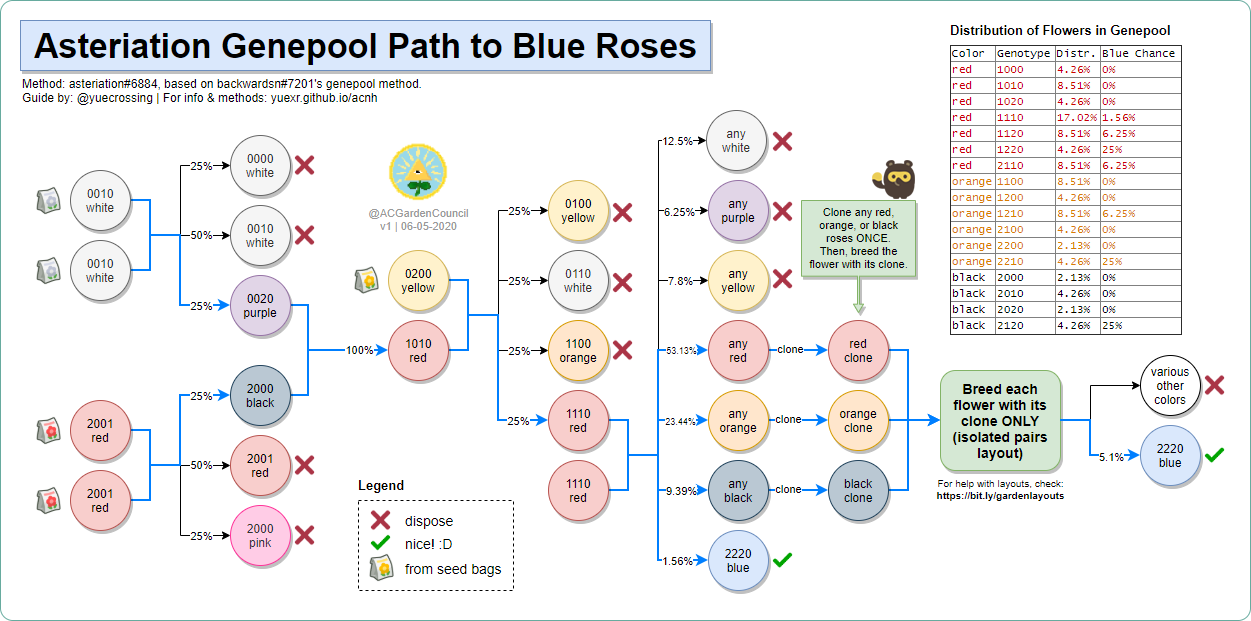
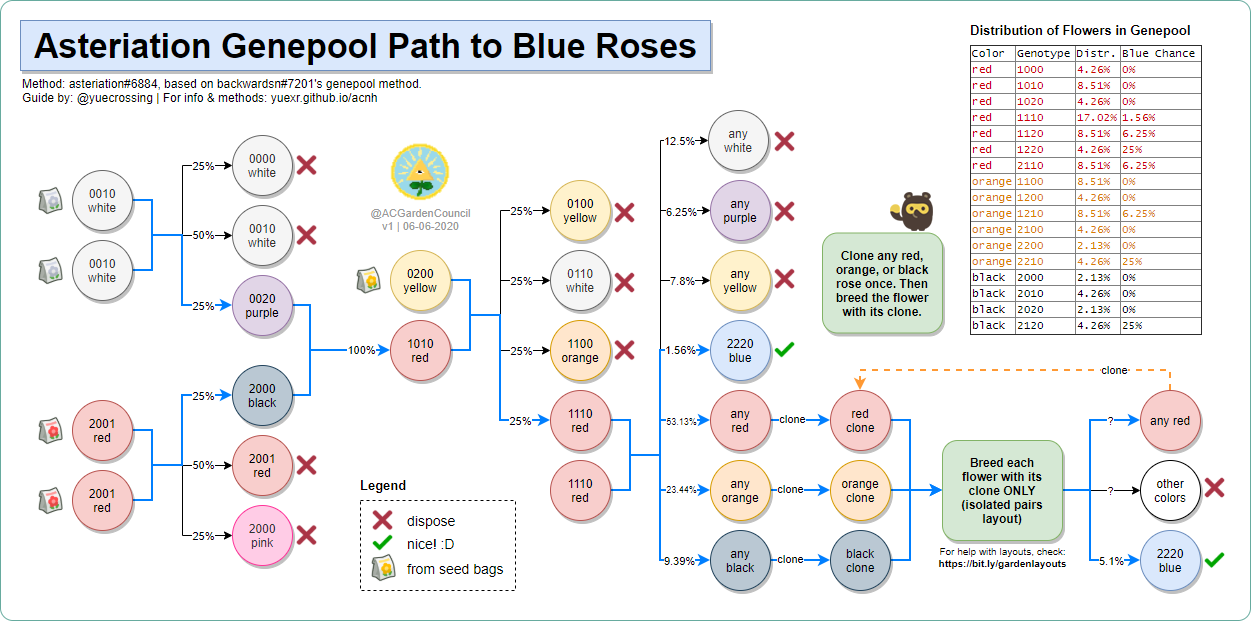
blue rose wip

diff --git a/acnh/bluerose_full.html b/acnh/bluerose_full.html
@@ -20,7 +20,7 @@
     </meta>
     <meta name="twitter:site" content="@yuecrossing" />
     <meta name="twitter:creator" content="@xiyuue" />
-    <meta name="twitter:title" content="Yue's ACNH Guides">
+    <meta name="twitter:title" content="Yue's ACNH Guides: Blue Rose">
     <meta name="twitter:image" content="https://yuexr.github.io/img/card.png">
 
     <!-- Global site tag (gtag.js) - Google Analytics -->
@@ -71,31 +71,36 @@
                 </li>
                 <li><b>"I know what I'm doing, I want the absolute fastest method!"</b>: Asteriation's Genepool method.
                 </li>
-                <li>"I'm a combination of both!": See chart below!</li>
+                <li><b>"I'm a combination of both!"</b>: See chart below!</li>
             </ul>
 
             <img src="../img/bluerose/recc.PNG" class="center"><br>
 
-            <h3>Definitions used in this guide</h3>
+            <h3>Glossary</h3>
             <div class="layouts-container">
                 <table>
                     <tr>
-                        <th>Color-safe:</th>
-                        <td class="nb">A method is color-safe if all the necessary intermediary offsprings are different
-                            from the parents.</td>
+                        <th>Clone-tolerant:</th>
+                        <td class="nb">A method is clone-tolerant if all the necessary intermediary offsprings are
+                            different
+                            from the parents. If a method is not clone-tolerant, you must use clone-resistant layouts.
+                        </td>
                     </tr>
                     <tr>
                         <td class="nb"></td>
                         <td>
-                            <b>Examples:</b> <button class="button" onclick="toggle('colorsafe')">show/hide</button><img
+                            <b>Examples:</b> <button class="button"
+                                onclick="toggle('clone-tolerant')">show/hide</button><img
                                 src="../img/layouts/leifpeek.png" width=30px style="margin-bottom:-10px">
-                            <div id="colorsafe" style="display:none;">
-                                <img src="../img/bluerose/colorsafe.png"><br>
+                            <div id="clone-tolerant" style="display:none;">
+                                <img src="../img/bluerose/clonetolerant.png"><br>
                                 <ul class="bullet-list">
-                                    <li>Example A is color-safe because the needed offspring (orange a) is a different
+                                    <li>Example A is clone-tolerant because the needed offspring (orange a) is a
+                                        different
                                         color from its parents (red and yellow). Although the parents can also make a
                                         yellow rose, it is not a part of the recipe and can be discarded.</li>
-                                    <li>Example B is not color-safe because the needed offspring (white alpha) is the
+                                    <li>Example B is not clone-tolerant because the needed offspring (white alpha) is
+                                        the
                                         same color as one of its parents (white and yellow). If the player incorrectly
                                         places the parents in a layout that allows for clones, we would not be able to
                                         differentiate if a white offspring is a clone of the seed or if it is white
@@ -121,6 +126,15 @@
                         </td>
                     </tr>
                     <tr>
+                        <th>Testing:</th>
+                        <td>Paleh and Folklore methods need <a href="./garden_layouts.html#testing"
+                                target="_blank">purple rose 𝑥 testing</a>.<br>
+                            In both methods, we will need to tell whether an unknown purple rose 𝑥 [0?20] is a purple
+                            rose α [0020] or purple rose β [0120]. You need to be super careful during this extra step
+                            to properly differentiate between 2 flowers that look exactly alike!
+                        </td>
+                    </tr>
+                    <tr>
                         <th>Visitors:</th>
                         <td>Having visitors from other islands water your flowers significantly increase your base
                             production rate (from 5% up to 80%!). <a href="./garden.html#watering"
@@ -143,6 +157,7 @@
                         breeding when needed.</li>
                 </ul>
             </div>
+            <p>to do: toggle 95%/median, write brief definition for what each means.</p>
 
             <h3>95 percentile</h3>
             <img src="../img/bluerose/95percentile.PNG" alt="">
@@ -179,7 +194,7 @@
                         </tr>
                         <tr>
                             <th>Weaknesses:</th>
-                            <td>Not color-safe. You must learn how to avoid clones, and you must use clone-resistant
+                            <td>Not clone-tolerant. You must learn how to avoid clones, and you must use clone-resistant
                                 layouts.<br>
                                 You must also need to do <a href="./garden_layouts.html#testing" target="_blank">purple
                                     rose 𝑥 testing</a>.</td>
@@ -187,7 +202,7 @@
                         <tr>
                             <th>Layouts:</th>
                             <td>We recommend the standard <a href="./garden_layouts.html#isolated_pairs"
-                                target="_blank">isolated pairs</a> layout, or its other variations (see link for
+                                    target="_blank">isolated pairs</a> layout, or its other variations (see link for
                                 details).</td>
                         </tr>
                         <tr>
@@ -245,7 +260,8 @@
                         </tr>
                         <tr>
                             <th>Strengths:</th>
-                            <td>Color-safe, you don't have to worry about clones (although clone-resistant layouts are
+                            <td>Clone-tolerant, you don't have to worry about clones (although clone-resistant layouts
+                                are
                                 always recommended). Also methodical, each step is organized and has calculated %
                                 rates.<br>
                             </td>
@@ -263,8 +279,8 @@
                                 href="./garden_layouts.html#turtle" target="_blank">turtle</a> or <a
                                 href="./garden_layouts.html#tetrist" target="_blank">tetris-t</a>. For the
                             other steps where the parents are different colors, you can use any <a
-                            href="./garden_layouts.html#breeding_diff" target="_blank">different-parent
-                            breeding layouts</a>.</td>
+                                href="./garden_layouts.html#breeding_diff" target="_blank">different-parent
+                                breeding layouts</a>.</td>
                         <tr>
                             <th>Credits:</th>
                             <td>Method: asteriation#6884.
@@ -317,7 +333,7 @@
                         </tr>
                         <tr>
                             <th>Weaknesses:</th>
-                            <td>Not color-safe. You must learn how to avoid clones, and you must use clone-resistant
+                            <td>Not clone-tolerant. You must learn how to avoid clones, and you must use clone-resistant
                                 layouts for the breeding steps. You will need to know how to clone for the cloning
                                 step.<br>
                                 You will be utilizing a genepool, which has an unknown % chance of making a blue
@@ -347,7 +363,7 @@
                                     <li>Pair elimination: eliminating low % clone pairs systematically. You must be
                                         using a layout that allows you to identify the exact set of parents an offspring
                                         comes from. Read more in the original document (linked below).</li>
-                                    <li>Offspring reuse. Specific pffspring of the pool can be fed back into the pool
+                                    <li>Offspring reuse. Specific offspring of the pool can be fed back into the pool
                                         (clone the offspring + breed). Read more in the original document (linked
                                         below).
                                     </li>
@@ -394,7 +410,7 @@
                         </tr>
                         <tr>
                             <th>Weaknesses:</th>
-                            <td>Not color-safe. You must learn how to avoid clones, and you must use clone-resistant
+                            <td>Not clone-tolerant. You must learn how to avoid clones, and you must use clone-resistant
                                 layouts.<br>
                                 You must also need to do <a href="./garden_layouts.html#testing" target="_blank">purple
                                     rose 𝑥 testing</a>.</td>
@@ -419,13 +435,32 @@
                         </tr>
                         <tr>
                             <th>Credits:</th>
-                            <td class="nb">Method: Paleh#2526, refined by: jpony#3101. <a href="https://bit.ly/348DAmJ"
+                            <td>Method: Paleh#2526, refined by: jpony#3101. <a href="https://bit.ly/348DAmJ"
                                     target="_blank">[original document]</a>
                             </td>
+                        </tr>
+                        <tr>
+                            <th>Other pictures:</th>
+                            <td class="nb">
+                                v2.0: incorrectly had main method as "alternate".</td>
+                        </tr>
+                        <tr>
+                            <td class="nb"></td>
+                            <td class="nb">
+                                <img src="../img/bluerose/palehv2a.png" width="300px"
+                                    onclick="openModal('palehV2a')"><br>
+                                    Leaving this up for those who were already on the old (slower) path. Will be removing this soon, please use the updated version!</td>
                         </tr>
                     </table>
                 </div>
             </div><br>
+
+            <div id="palehV2a" class="modal">
+                <div class="modal-content">
+                    <img src="../img/bluerose/palehv2a.png" style="max-width:100%;"><br>
+                    <button class="button-gr" onclick="closeModal()">Close</button>
+                </div>
+            </div>
 
             <h2>BackwardsN Genepool Method</h2>
             <img src="../img/bluerose/backngenepool.png"><br>
@@ -461,11 +496,13 @@
                         </tr>
                         <tr>
                             <th>Layouts:</th>
-                            <td>For steps 1 and 2: we recommend the standard <a href="./garden_layouts.html#isolated_pairs"
-                                target="_blank">isolated pairs</a> layout (or other variations).<br>
+                            <td>For steps 1 and 2: we recommend the standard <a
+                                    href="./garden_layouts.html#isolated_pairs" target="_blank">isolated pairs</a>
+                                layout (or other variations).<br>
                                 For step 3 (1110 red x 1110 red) and 4 (genepool): any dense layouts such as <a
-                                href="./garden_layouts.html#turtle" target="_blank">turtle</a> or <a
-                                href="./garden_layouts.html#tetrist" target="_blank">tetris-t</a> (use this despite genepool not being identical parents).<br>
+                                    href="./garden_layouts.html#turtle" target="_blank">turtle</a> or <a
+                                    href="./garden_layouts.html#tetrist" target="_blank">tetris-t</a> (use this despite
+                                genepool not being identical parents).<br>
                                 During the genepool step, you can keep expanding the "field" of red, orange, and black
                                 roses with additional offsprings.
                             </td>
@@ -479,7 +516,8 @@
                         <tr>
                             <th>Other pictures:</th>
                             <td class="nb">[NEED TO FIX: MODAL IS GIANT QUQ]<br>
-                                Visual version: (by @kamirose).</td>
+                                Visual version: (by <a href="https://twitter.com/kamirose/"
+                                    target="_blank">@kamirose</a>).</td>
                         </tr>
                         <tr>
                             <td class="nb"></td>

diff --git a/acnh/garden_layouts.html b/acnh/garden_layouts.html
@@ -84,7 +84,7 @@
                 <div class="toggle-container">
                     <h3>What is your goal?</h3>
                     <ul class="bullet-list">
-                        <li><b>All Flowers</b> layouts are for trying to breed all flower phenotypes (colours).</li>
+                        <li><b>All Flowers</b> layouts are for trying to breed all flower phenotypes (colors).</li>
                         <li>
                             <b>Breeding</b> layouts are for crossing genes of two flowers (usually in an attempt to make
                             a new flower).
@@ -230,7 +230,7 @@
             <ul class="bullet-list">
                 <li>A big problem with many ACNH flower guides on the internet is that they recommend checkerboard and X
                     layouts.</li>
-                <li>They are presented as breeding layouts (to make new colours). However, they are highly susceptible
+                <li>They are presented as breeding layouts (to make new colors). However, they are highly susceptible
                     to cloning.</li>
                 <a name="x"></a>
                 <li>Let's first take a look at the X layout.</li>
@@ -1162,7 +1162,7 @@
                             </tr>
                             <tr>
                                 <th>Bonus:</th>
-                                <td class="nb">X layout is also decent for color-safe breeding (resulting offspring can be
+                                <td class="nb">X layout is also decent for clone-tolerant breeding (resulting offspring can be
                                     differentiated from a clone) for players with no visitor watering. Again unnecessary
                                     for players who get visitor water.<br>
                                 You can also strategically block spawnable tiles like in pre-watering above to prevent water-counters from resetting.</td>

diff --git a/acnh/bluerose.html b/acnh/bluerose.html
@@ -60,8 +60,8 @@
                     doc.</a></p>
 
             <h2>Folklore Orange Flowchart</h2>
-            <img src="../img/bluerose/co32h-1.png" alt="folklore_flowchart"><br>
-            <img src="../img/bluerose/co32h-2.png" alt="folklore_genotype"><br>
+            <img src="../img/bluerose/folklore_co32h_1.png" alt="folklore_flowchart"><br>
+            <img src="../img/bluerose/folklore_co32h_2.png" alt="folklore_genotype"><br>
 
             <h2>Paleh v2 Flowchart</h2>
             Updated: 06-04-2020, moved alternate method as main method. <a href="../img/bluerose/palehv2a.png"

diff --git a/styles/styles.css b/styles/styles.css
@@ -314,12 +314,13 @@ td, th {
 }
 th {
   text-align: right;
-  padding: 0 7px 0 0;
+  padding: 1px 7px 0 0;
   width: 120px;
   background: #ffaaba;
   color:white;
   font-weight: normal;
   border-bottom: 1px solid #ffffff;
+  vertical-align: top;
 }
 td {
   padding: 0 0 0 7px;
